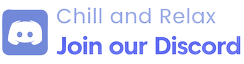
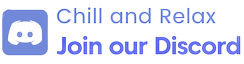
Discord Button fix, Binance Added

Changed region(s): [[0.2295, 0.125, 0.6311, 0.375], [0.6598, 0.125, 0.8893, 0.375]]

diff --git a/src/sass/style.css b/src/sass/style.css
@@ -351,14 +351,14 @@ replaced by just the links.*/
   -webkit-box-direction: normal;
       -ms-flex-flow: row wrap;
           flex-flow: row wrap;
-  width: 100%;
+  width: 98.8%;
 }
 
 .label-container .label {
-  font-size: 0.9rem;
+  font-size: 1rem;
   font-weight: 500;
-  padding: 6px 15px;
-  border-radius: 20px;
+  padding: 6px 12px;
+  border-radius: 15px;
   color: #0093ed;
   border: 1px solid #0093ed;
   cursor: pointer;
@@ -375,7 +375,7 @@ replaced by just the links.*/
   line-height: 0;
   border: 0.5px solid #7289da;
   display: inline-block;
-  padding: 6px 14px;
+  padding: 6px 12px;
   border-radius: 10px;
   -webkit-transition: all 0.3s ease-in-out;
   transition: all 0.3s ease-in-out;
@@ -386,7 +386,7 @@ replaced by just the links.*/
   line-height: 0;
   border: 0.5px solid #7289da;
   display: inline-block;
-  padding: 6px 14px;
+  padding: 6px 12px;
   border-radius: 10px;
   -webkit-transform: scale(1.2);
           transform: scale(1.2);
@@ -397,7 +397,7 @@ replaced by just the links.*/
   line-height: 0;
   border: 0.5px solid rgba(0, 147, 237, 0.3);
   display: inline-block;
-  padding: 6px 14px;
+  padding: 6px 12px;
   border-radius: 10px;
   height: 48px;
   width: 170px;
@@ -415,6 +415,7 @@ replaced by just the links.*/
   -webkit-transition: all 0.2s ease;
   transition: all 0.2s ease;
   cursor: pointer;
+  margin: 0rem 1.5rem;
 }
 
 .call-to-action-btn:hover {
@@ -433,6 +434,8 @@ replaced by just the links.*/
   -webkit-box-align: center;
       -ms-flex-align: center;
           align-items: center;
+  -ms-flex-wrap: wrap;
+      flex-wrap: wrap;
 }
 
 .landing-page-header .header-details .landing-page-btn-container .discord-button img {

diff --git a/src/sass/style.scss b/src/sass/style.scss
@@ -336,13 +336,13 @@ replaced by just the links.*/
   margin: 0 auto;
   margin-top: 2rem;
   flex-flow: row wrap;
-  width: 100%;
+  width: 98.8%;
 
   .label {
-    font-size: 0.9rem;
+    font-size: 1rem;
     font-weight: 500;
-    padding: 6px 15px;
-    border-radius: 20px;
+    padding: 6px 12px;
+    border-radius: 15px;
     color: #0093ed;
     border: 1px solid #0093ed;
     cursor: pointer;
@@ -361,7 +361,7 @@ replaced by just the links.*/
     line-height: 0;
     border: 0.5px solid #7289da;
     display: inline-block;
-    padding: 6px 14px;
+    padding: 6px 12px;
     border-radius: 10px;
     transition: all 0.3s ease-in-out;
   }
@@ -371,7 +371,7 @@ replaced by just the links.*/
     line-height: 0;
     border: 0.5px solid #7289da;
     display: inline-block;
-    padding: 6px 14px;
+    padding: 6px 12px;
     border-radius: 10px;
     transform: scale(1.2);
   }
@@ -382,7 +382,7 @@ replaced by just the links.*/
   line-height: 0;
   border: 0.5px solid rgba(0, 147, 237, 0.3);
   display: inline-block;
-  padding: 6px 14px;
+  padding: 6px 12px;
   border-radius: 10px;
   height: 48px;
   width: 170px;
@@ -394,6 +394,7 @@ replaced by just the links.*/
   -webkit-transition: all 0.2s ease;
   transition: all 0.2s ease;
   cursor: pointer;
+  margin: 0rem 1.5rem;
 
   &:hover {
     color: #ffffff;
@@ -408,6 +409,7 @@ replaced by just the links.*/
 .landing-page-btn-container {
   display: flex;
   align-items: center;
+  flex-wrap: wrap;
 }
 
 .landing-page-header .header-details .landing-page-btn-container .discord-button img {

diff --git a/src/components/web-dev/Web-dev.js b/src/components/web-dev/Web-dev.js
@@ -41,7 +41,8 @@ const Content = () => {
           <div className="header-details">
             <h1>Web Dev Tools</h1>
 
-            <p>A collection of all the tools that are required in web development made by the community to ease the process of web development like CSS Generators, Icons, Illustration, etc.</p>
+            <p>A collection of all the tools that are required in web development made by the community to ease the 
+              process of web development.</p>
 
             <Link to="container" smooth={true} duration={1000}>
               <h4>Explore all</h4>

diff --git a/src/components/Landingpage.js b/src/components/Landingpage.js
@@ -20,8 +20,7 @@ const Landingpage = () => {
             <p>
               All in one place where you can find all the resources and details
               of ambassador/fellowship, open source events, web dev sites, js
-              toolkits and etc. that are available across different sites. These
-              are verified and crowdsourced by the community.
+              toolkits and etc. that are available across different sites.
             </p>
             <div className="landing-page-btn-container">
               <div className="discord-button">

diff --git a/src/components/ambassador/Ambassador.js b/src/components/ambassador/Ambassador.js
@@ -27,7 +27,8 @@ const Content = () => {
           <div className="header-details">
             <h1>Ambassador</h1>
 
-            <p>Place where you can find all the resources and details of ambassador/fellowship that are available across different countries and companies.</p>
+            <p>Place where you can find all the resources and details of ambassador/fellowship that are available 
+              across different companies.</p>
 
             <Link to="container" smooth={true} duration={1000}>
               <h4>Explore all</h4>

diff --git a/src/components/ambassador/Ambassador-Data.js b/src/components/ambassador/Ambassador-Data.js
@@ -48,6 +48,12 @@ const AmbassadorDatas = [
         alt: "AWS Logo"
     },
     {
+        link: "https://www.binance.com/en-IN/event/binance_campus_buidler",
+        head: "Binance Campus BUIDLers Program",
+        image: "../assets/ambassador-img/Binance.jpg",
+        alt: "Binance Logo"
+    },
+    {
         link: "https://app.smartsheet.com/b/form/a92f74ca555f44e4aa638a4f00a77213",
         head: "Cisco Campus Ambassador Program",
         image: "../assets/ambassador-img/Cisco.png",

diff --git a/README.md b/README.md
@@ -3,7 +3,7 @@
 
 ## 📌 Introduction
 
-Developer Empire comprises of a wide collection of Campus Ambassador programs/fellowships in which you can apply and become the forefront in your college/university. Consider this repository as your personal space to find or add any new Campus Ambassador program/fellowship that can make life easier for people who want to show their Leadership skills and want to make a change in the community.
+All in one place where you can find all the resources and details of ambassador/fellowship, open source events, web dev sites, js toolkits and etc. that are available across different sites. Consider this repository as your personal space to find or add any new resource that can make life easier for the community.
 
 ##  🚀 View Live Demo
 <img src="https://img.shields.io/badge/website-up-greene" />
